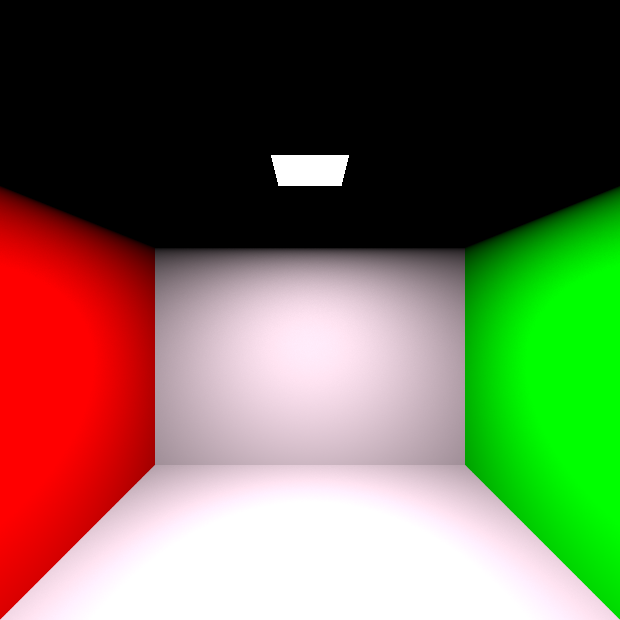
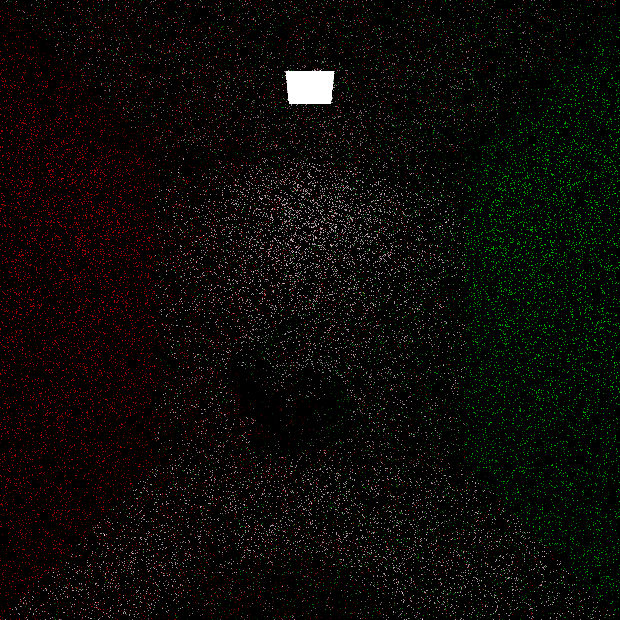
pathtracing implemented

diff --git a/myraytracer/src/tracer/World.java b/myraytracer/src/tracer/World.java
@@ -75,7 +75,7 @@ public class World {
 		this.buffer = buffer;
 		this.reporter = reporter;
 		this.panel = panel;
-		this.tracer = new AreaLighting(this);
+		this.tracer = new PathTracer(this);
 		build();
 	}
 
@@ -88,7 +88,7 @@ public class World {
 		Transformation houseTransformation = Transformation.translate(0, -1, -2).append(Transformation.rotateY(90));
 		Transformation appleTransformation = Transformation.translate(0, -1, -2).append(Transformation.rotateX(90));
 		Transformation buddhaTransformation = Transformation.translate(0, 0, -2).append(Transformation.scale(2, 2, 2)).append(Transformation.rotateY(180));
-		Transformation bunnyTransformation = Transformation.translate(0, -1, -3).append(Transformation.scale(0.5, 0.5, 0.5));
+		Transformation bunnyTransformation = Transformation.translate(0, -0.5, -1.2).append(Transformation.scale(0.1, 0.1, 0.1));
 
 		List<GeometricObject> bvhs = new ArrayList<>();
 		BoundingVolume bvh = null;
@@ -150,22 +150,22 @@ public class World {
 //		bvhs.add(new Instance(bvh, true, appleTransformation, null));
 
 		// create bunny
-//		bvh = new BoundingVolume();
-//		SVMatte constantMatte = new SVMatte(new ConstantColor(new RGBColor(0.5, 0.5, 0.5)));
-//		constantMatte.setKA(0);
-//		constantMatte.setKD(0.7);
-//		mesh = OBJFileLoader.loadOBJ("res/models/bunny.obj");
-//		for (int i = 0; i < mesh.indices.length; i += 3) {
-//			if (useBoundingVolumeHierarchy) {
-//				bvh.addObject(new SmoothUVMeshTriangle(mesh, mesh.indices[i], mesh.indices[i + 1], mesh.indices[i + 2],
-//						constantMatte));
-//			} else {
-//				shapes.add(new Instance(new SmoothUVMeshTriangle(mesh, mesh.indices[i], mesh.indices[i + 1],
-//						mesh.indices[i + 2], constantMatte), true, bunnyTransformation, null));
-//			}
-//		}
-//		bvh.calculateHierarchy();
-//		bvhs.add(new Instance(bvh, true, bunnyTransformation, null));
+		bvh = new BoundingVolume();
+		SVMatte constantMatte = new SVMatte(new ConstantColor(new RGBColor(0.5, 0.5, 0.5)));
+		constantMatte.setKA(0);
+		constantMatte.setKD(0.7);
+		mesh = OBJFileLoader.loadOBJ("res/models/bunny.obj");
+		for (int i = 0; i < mesh.indices.length; i += 3) {
+			if (useBoundingVolumeHierarchy) {
+				bvh.addObject(new SmoothUVMeshTriangle(mesh, mesh.indices[i], mesh.indices[i + 1], mesh.indices[i + 2],
+						constantMatte));
+			} else {
+				shapes.add(new Instance(new SmoothUVMeshTriangle(mesh, mesh.indices[i], mesh.indices[i + 1],
+						mesh.indices[i + 2], constantMatte), true, bunnyTransformation, null));
+			}
+		}
+		bvh.calculateHierarchy();
+		bvhs.add(new Instance(bvh, true, bunnyTransformation, null));
 
 		// create buddha object
 //		bvh = new BoundingVolume();
@@ -195,7 +195,7 @@ public class World {
 //		shapes.add(disk);
 		
 		Emissive emissive = new Emissive();
-		emissive.scaleRadiance(20.0);
+		emissive.scaleRadiance(10.0);
 		emissive.setCE(1, 1, 1);
 		
 		
@@ -240,7 +240,7 @@ public class World {
 		
 		
 		//create rectangle
-		Rectangle lightRectangle = new Rectangle(new Point3d(-0.1,0.4,-1), new Vector3d(0,0,0.2), new Vector3d(0.2,0,0), new Vector3d(0,-1,0), emissive);
+		Rectangle lightRectangle = new Rectangle(new Point3d(-0.1,0.999,-1.5), new Vector3d(0,0,0.2), new Vector3d(0.2,0,0), new Vector3d(0,-1,0), emissive);
 		lightRectangle.setShadows(true);
 		shapes.add(lightRectangle);
 		

diff --git a/myraytracer/src/brdf/SVLambertian.java b/myraytracer/src/brdf/SVLambertian.java
@@ -31,7 +31,8 @@ public class SVLambertian extends BRDF {
 		Vector3d u = v.cross(w);
 		
 		Point3d sample = shadeRec.materialSampler.getSampleUnitHemisphere();
-		wi = u.scale(sample.x).add(v.scale(sample.y)).add(w.scale(sample.z)).normalize();
+		
+		wi.set(u.scale(sample.x).add(v.scale(sample.y)).add(w.scale(sample.z)).normalize());
 		shadeRec.pdf = shadeRec.normal.dot(wi) / Math.PI;
 		
 		return (cd.getColor(shadeRec).scale(kd / Math.PI));

diff --git a/myraytracer/src/main/Renderer.java b/myraytracer/src/main/Renderer.java
@@ -107,7 +107,7 @@ public class Renderer {
 		final ImagePanel panel;
 		if (gui) {
 			panel = new ImagePanel(width, height, sensitivity, gamma);
-			RenderFrame frame = new RenderFrame("Spheres", panel);
+			RenderFrame frame = new RenderFrame("Sus Verwimp Ray Tracer", panel);
 			reporter.addProgressListener(frame);
 		} else
 			panel = null;
